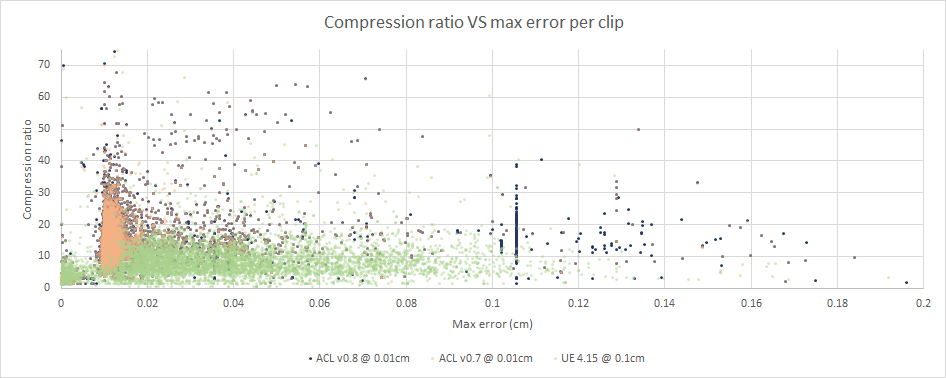
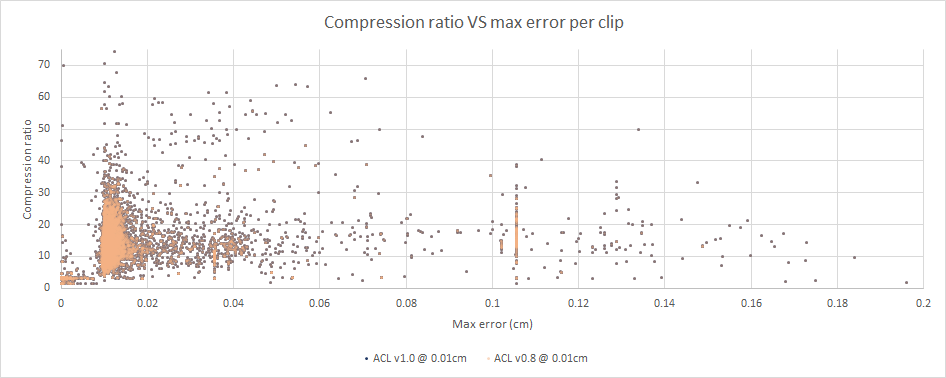
Updating Paragon stats. UE4 metrics were removed because they will now be tracked by the plugin.

diff --git a/docs/paragon_performance.md b/docs/paragon_performance.md
@@ -1,7 +1,8 @@
 # Paragon database performance
 
 To compile these statistics, a large number of animations from [Paragon](https://www.epicgames.com/paragon) are used.
-In October 2017 the animations were manually extracted and converted to the [ACL file format](the_acl_file_format.md) losslessly. The data is sadly **NOT** available upon request.
+
+In *October 2017* the animations were manually extracted and converted to the [ACL file format](the_acl_file_format.md) losslessly. The data is sadly **NOT** available upon request.
 Epic has permitted [Nicholas Frechette](https://github.com/nfrechette) to use them for research purposes only under a non-disclosure agreement.
 
 **Note: Epic has since released Paragon assets publicly in early 2018, once I get around to it, it will be extracted and made available along with updated stats.**
@@ -20,45 +21,28 @@ The data set contains among other things:
 *  Lots of 3D scale
 *  Lots of other exotic clips
 
+ACL supports various compression methods but only the overall best variant will be tracked here (see `get_default_compression_settings()` for details).
+
 The error is measured **3cm** away from each bone to simulate the visual mesh skinning process as described [here](error_metrics.md).
 
-*  [ACL](paragon_performance.md#acl)
-*  [Unreal 4](paragon_performance.md#unreal-4)
-*  [Results in images](paragon_performance.md#results-in-images)
+The performance of ACL in Unreal Engine 4 is tracked by the plugin [here](https://github.com/nfrechette/acl-ue4-plugin/blob/develop/Docs/paragon_performance.md).
 
-# ACL
-
-Statistics for ACL are being generated with the `acl_compressor` tool found [here](../tools/acl_compressor). It supports various compression methods but only the overall best variant will be tracked here: variable bit rate with range reduction enabled. Every clip uses an error threshold of **0.01cm (0.1mm)**.
+# Summary
 
 *  Compressed size: **206.09 MB**
 *  Compression ratio: **20.75 : 1**
 *  Max error: **3.8615** centimeters
-*  Compression time: **07h 30m 46.44s** (single threaded)
-*  Compression time: **02h 03m 17.12s** (multi threaded on 4 cores)
+*  Compression time: **07h 48m 52.03s** (single threaded)
+*  Compression time: **02h 06m 34.97s** (multi threaded on 4 cores)
 
 Notes:
 
 *  You can compress any number of clips in parallel with multiple threads but each clip uses a single thread for now.
-*  The error is unusually high for **3** exotic clips
+*  The error is unusually high (above **1cm**) for **6** exotic clips.
 
-**Results from release [0.8.0](https://github.com/nfrechette/acl/releases/tag/v0.8.0)**
+**Results from release [1.0.0](https://github.com/nfrechette/acl/releases/tag/v1.0.0)**
 
 See [here](paragon_performance_history.md) for a history of performance progress across the various releases.
-
-# Unreal 4
-
-In order to measure statistics in *Unreal 4*, ACL was integrated along with a small [commandlet](../tools/ue4_stats_dump) to run the necessary compression and decompression logic. Everything uses the default values from the automatic compression settings which performs an exhaustive search of the best compression variant. As described [here](http://nfrechette.github.io/2017/01/11/anim_compression_unreal4/), the automatic compression tries many algorithms and settles on the best memory footprint that is also under the desired error threshold. The default error threshold is **1.0cm** but here we used **0.1cm** which is more realistic for production use.
-
-*  Compressed size: **493.97 MB**
-*  Compression ratio: **8.66 : 1**
-*  Max error: **1.0404** centimeters
-*  Compression time: **20h 16m 27.87s** (single threaded)
-
-Sadly the *Unreal 4* compression logic does not *yet* support multi-threading and must be run from the main thread.
-
-*Note: Down-sampling variants were causing issues and were disabled in the interest of keeping things fair. This speeds up the compression time considerably but does not affect the compressed size much*.
-
-**Results from Unreal 4.15.0**
 
 # Results in images
 

diff --git a/docs/paragon_performance_history.md b/docs/paragon_performance_history.md
@@ -1,16 +1,28 @@
 # Paragon database performance history
 
 To compile these statistics, a large number of animations from [Paragon](https://www.epicgames.com/paragon) are used.
-In October 2017 the animations were extracted manually and converted to the [ACL file format](the_acl_file_format.md) losslessly. The data is sadly **NOT** available upon request.
+
+In *October 2017* the animations were extracted manually and converted to the [ACL file format](the_acl_file_format.md) losslessly. The data is sadly **NOT** available upon request.
 Epic has permitted [Nicholas Frechette](https://github.com/nfrechette) to use them for research purposes only under a non-disclosure agreement.
 
 *  Number of clips: **6558**
 *  Total duration: **07h 00m 45.27s**
 *  Raw size: **4276.11 MB** (10x float32 * num bones * num samples)
 
+ACL supports various compression methods but only the overall best variant will be tracked here (see `get_default_compression_settings()` for details).
+
 The error is measured **3cm** away from each bone to simulate the visual mesh skinning process as described [here](error_metrics.md).
 
-Statistics for ACL are being generated with the `acl_compressor` tool found [here](../tools/acl_compressor). It supports various compression methods but only the overall best variant will be tracked here. Every clip uses an error threshold of **0.01cm (0.1mm)**.
+## Results from release [1.0.0](https://github.com/nfrechette/acl/releases/tag/v1.0.0):
+
+*  Compressed size: **206.09 MB**
+*  Compression ratio: **20.75 : 1**
+*  Max error: **3.8615** centimeters
+*  Compression time: **07h 48m 52.03s** (single threaded)
+*  Compression time: **02h 06m 34.97s** (multi threaded on 4 cores)
+*  Best variant: Segmented uniform sampling with variable bit rate and range reduction
+
+*Note: The error is unusually high (above **1cm**) for **6** exotic clips.
 
 ## Results from release [0.8.0](https://github.com/nfrechette/acl/releases/tag/v0.8.0):
 
@@ -21,7 +33,7 @@ Statistics for ACL are being generated with the `acl_compressor` tool found [her
 *  Compression time: **02h 03m 17.12s** (multi threaded on 4 cores)
 *  Best variant: Segmented uniform sampling with variable bit rate and range reduction
 
-*Note: The error is unusually high for **3** exotic clips.
+*Note: The error is unusually high (above **1cm**) for **6** exotic clips.
 
 ## Results from release [0.7.0](https://github.com/nfrechette/acl/releases/tag/v0.7.0):
 
